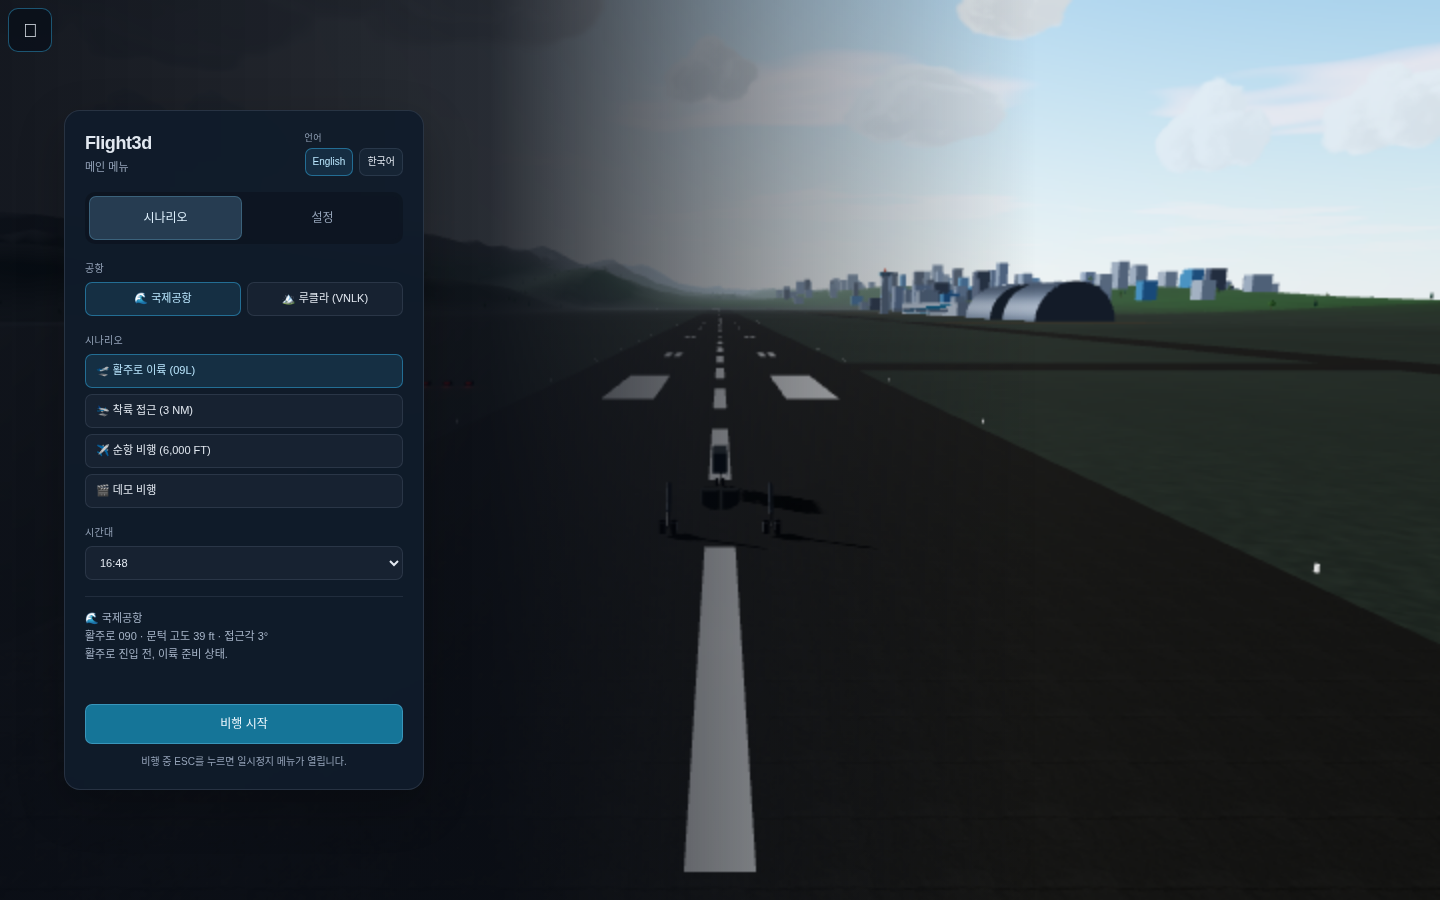
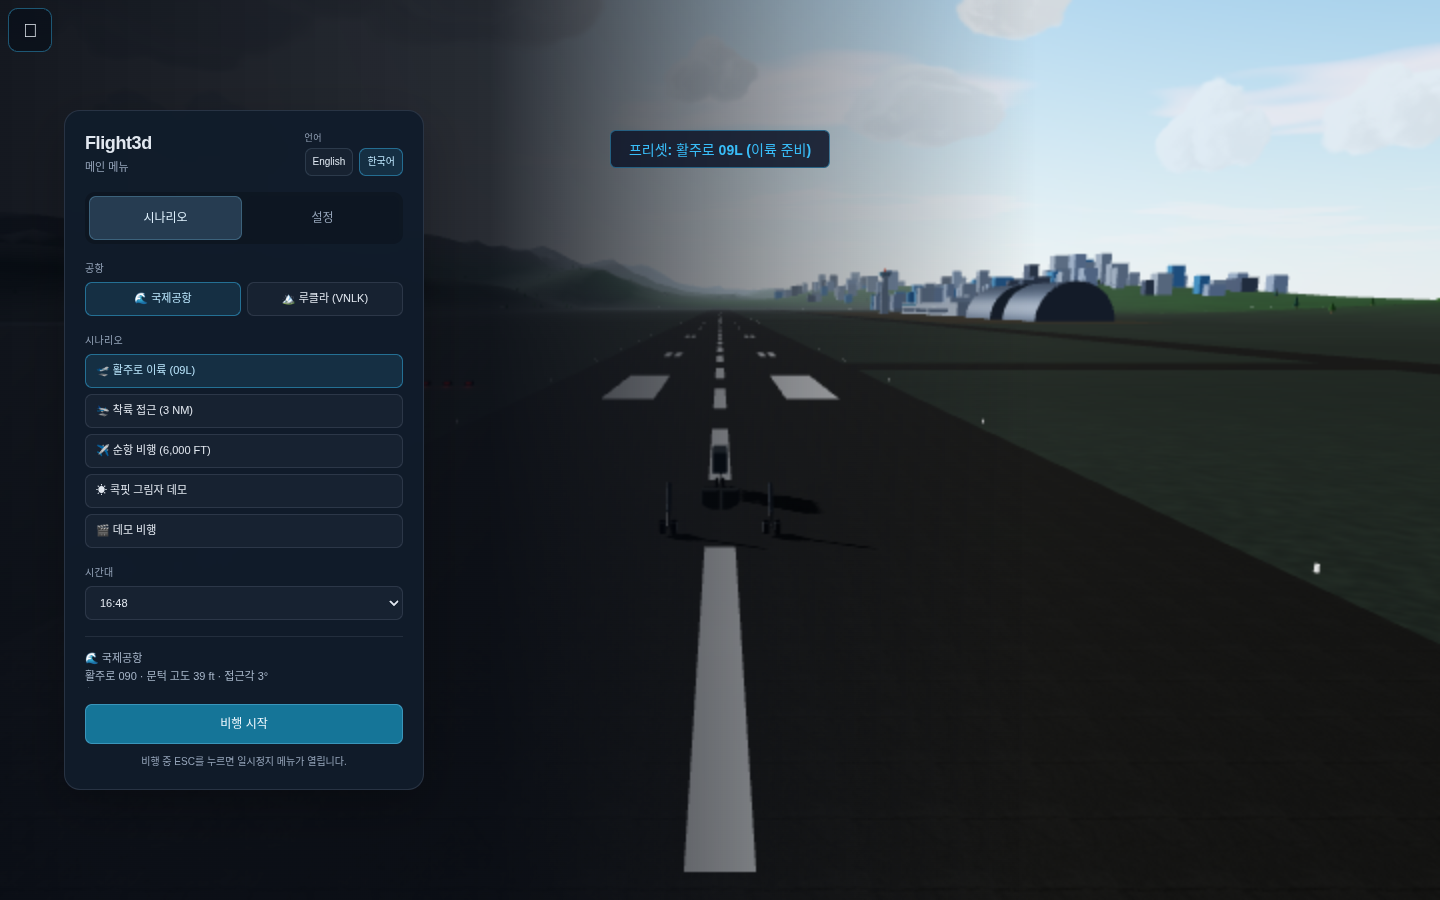
Re-verify the menu tabs after rebasing onto main

diff --git a/review-artifacts/main-menu/README.md b/review-artifacts/main-menu/README.md
@@ -19,8 +19,8 @@ Current tab layout, Korean, captured with the menu frozen over the cinematic:
 
 ## Verification
 
-- `npm run check`: 161 JavaScript files and six pinned action references passed.
-- `npm test`: 408 tests passed, zero failures.
+- `npm run check`: 164 JavaScript files and six pinned action references passed.
+- `npm test`: 411 tests passed, zero failures.
 - `npm run build`: passed (existing chunk size advisory).
 - Menu tab review harness: 24 viewport / language / panel combinations passed
   (1440x900, 1024x768, 390x844, 320x568, 568x320, 844x390 in English and
@@ -38,3 +38,6 @@ Current tab layout, Korean, captured with the menu frozen over the cinematic:
     (HUD stall-warning overlap, not the menu). This reproduces on the
     pre-change commit `6ba4591` with the unmodified script (`top` 328.42 versus
     328.45 on this branch), so it is pre-existing and left untouched here.
+
+All of the above was re-run after rebasing onto `main` (`efc270a`), which added a
+sixth scenario button to the scenario panel.
